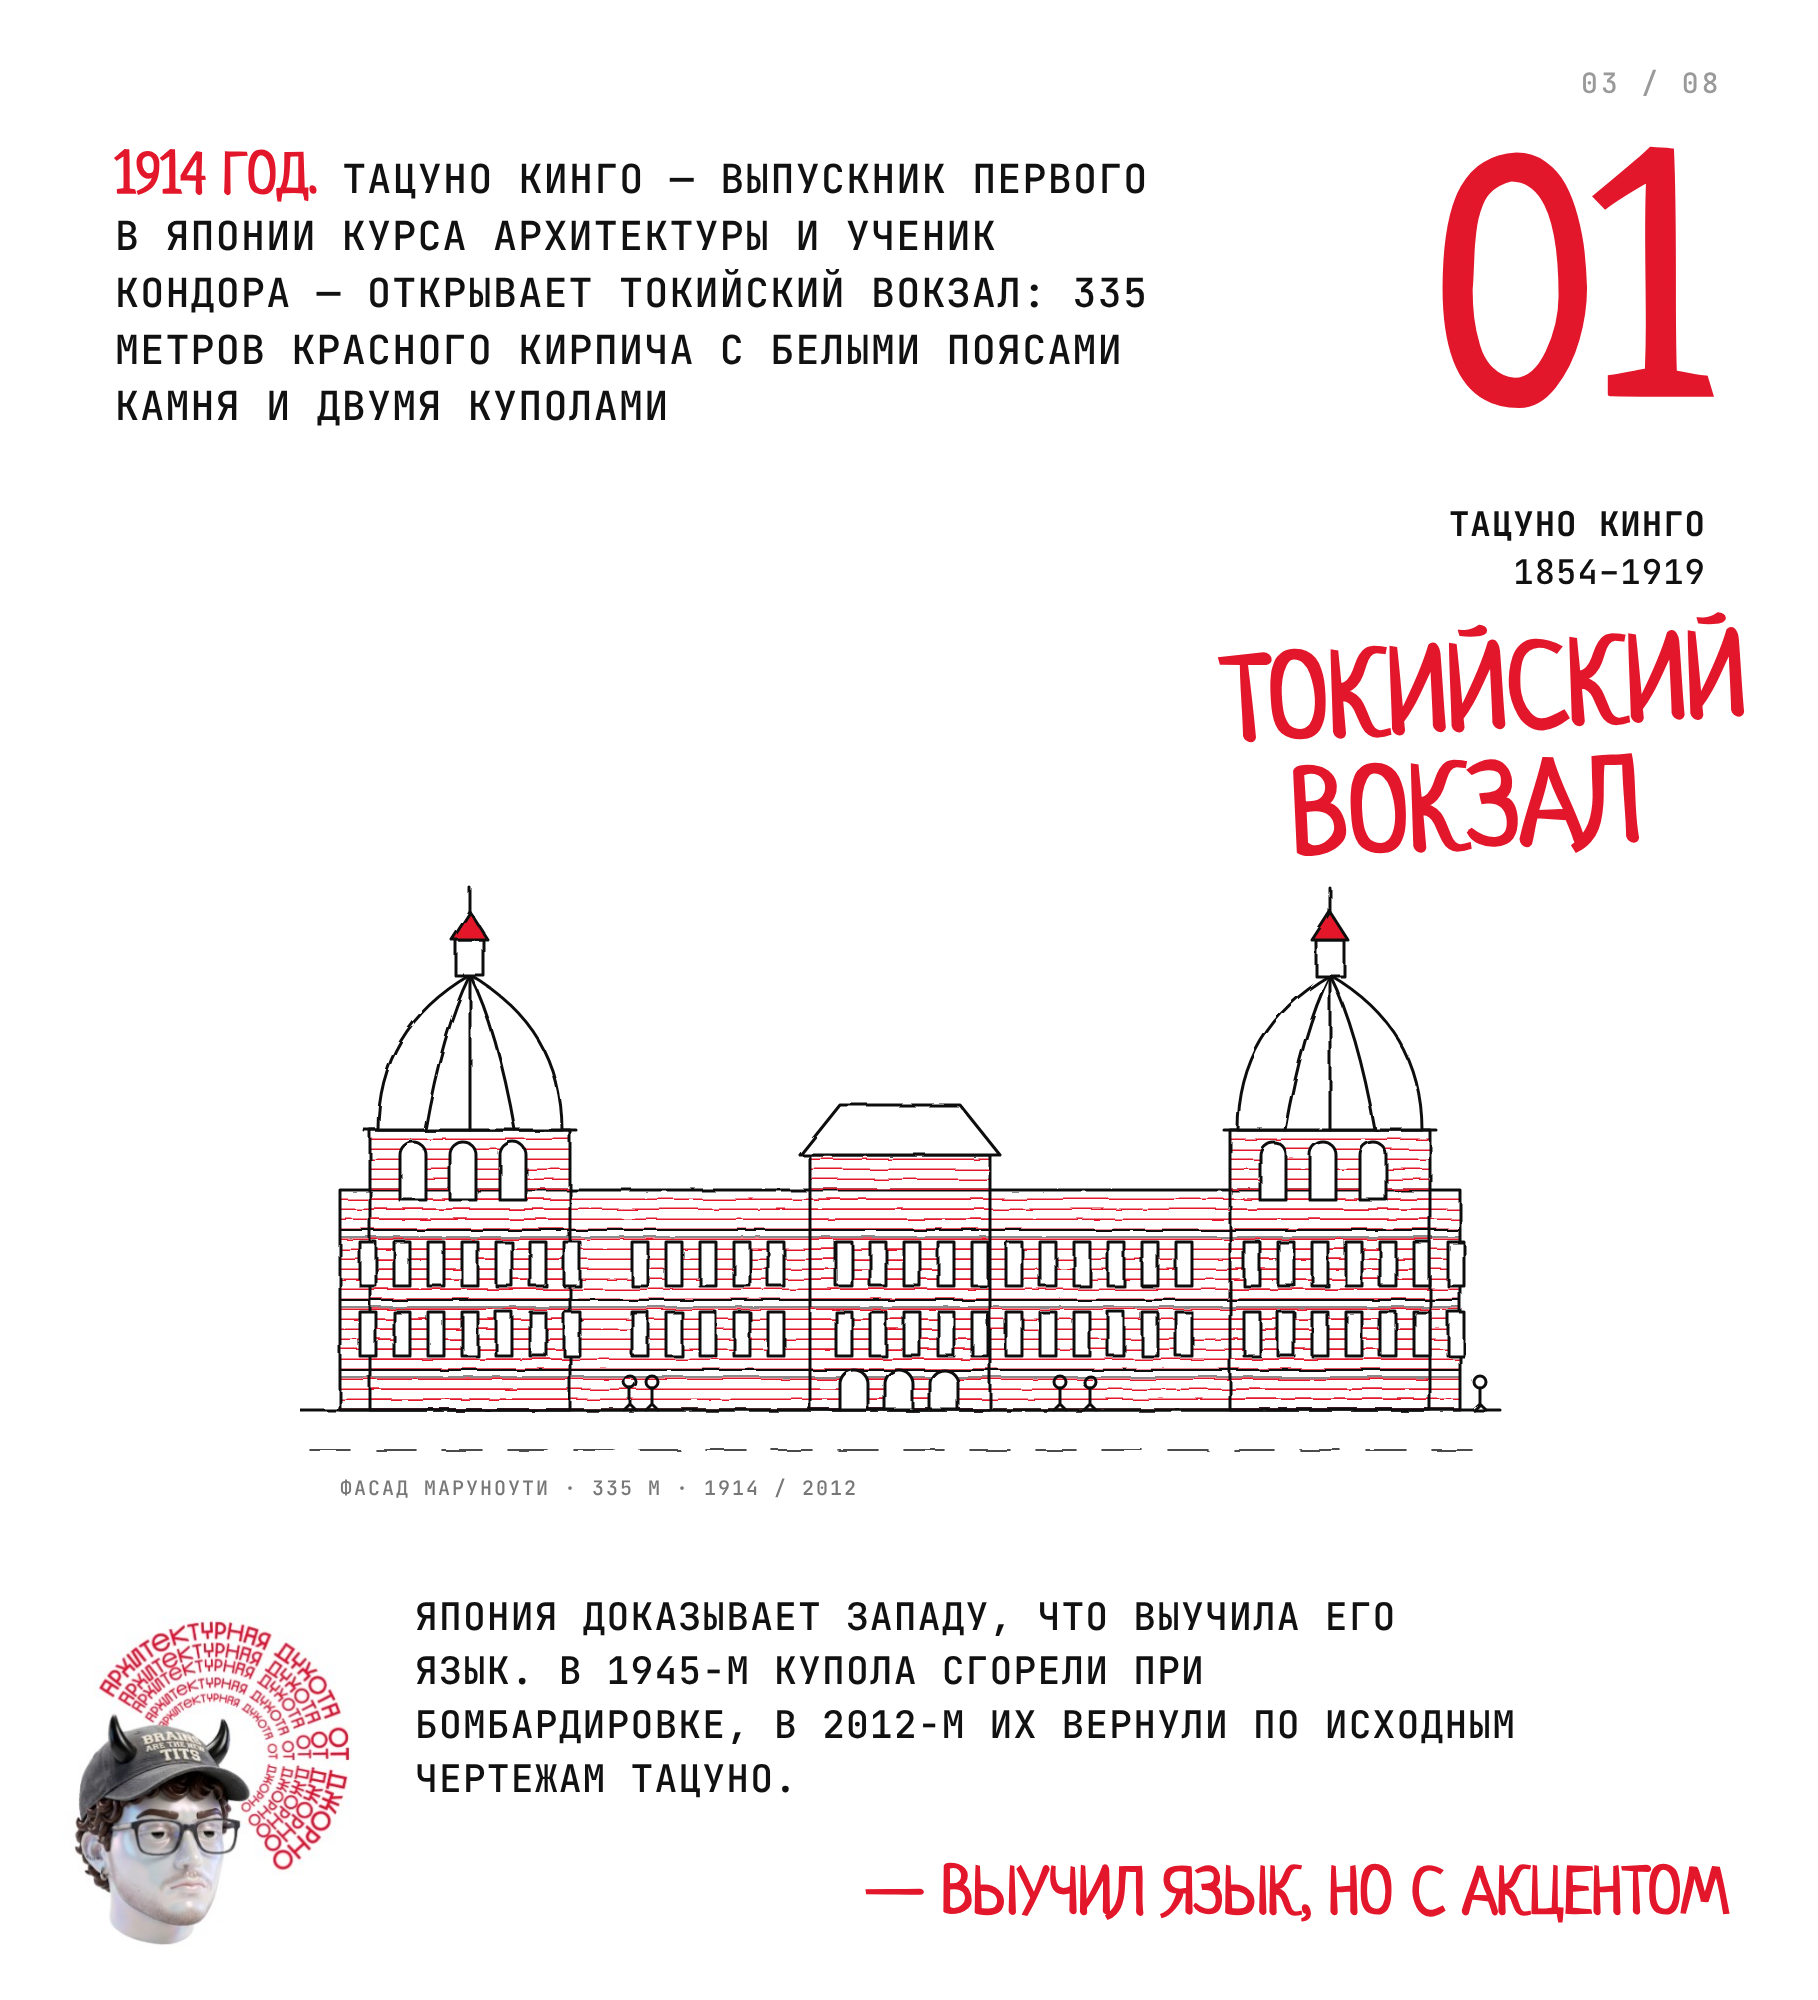
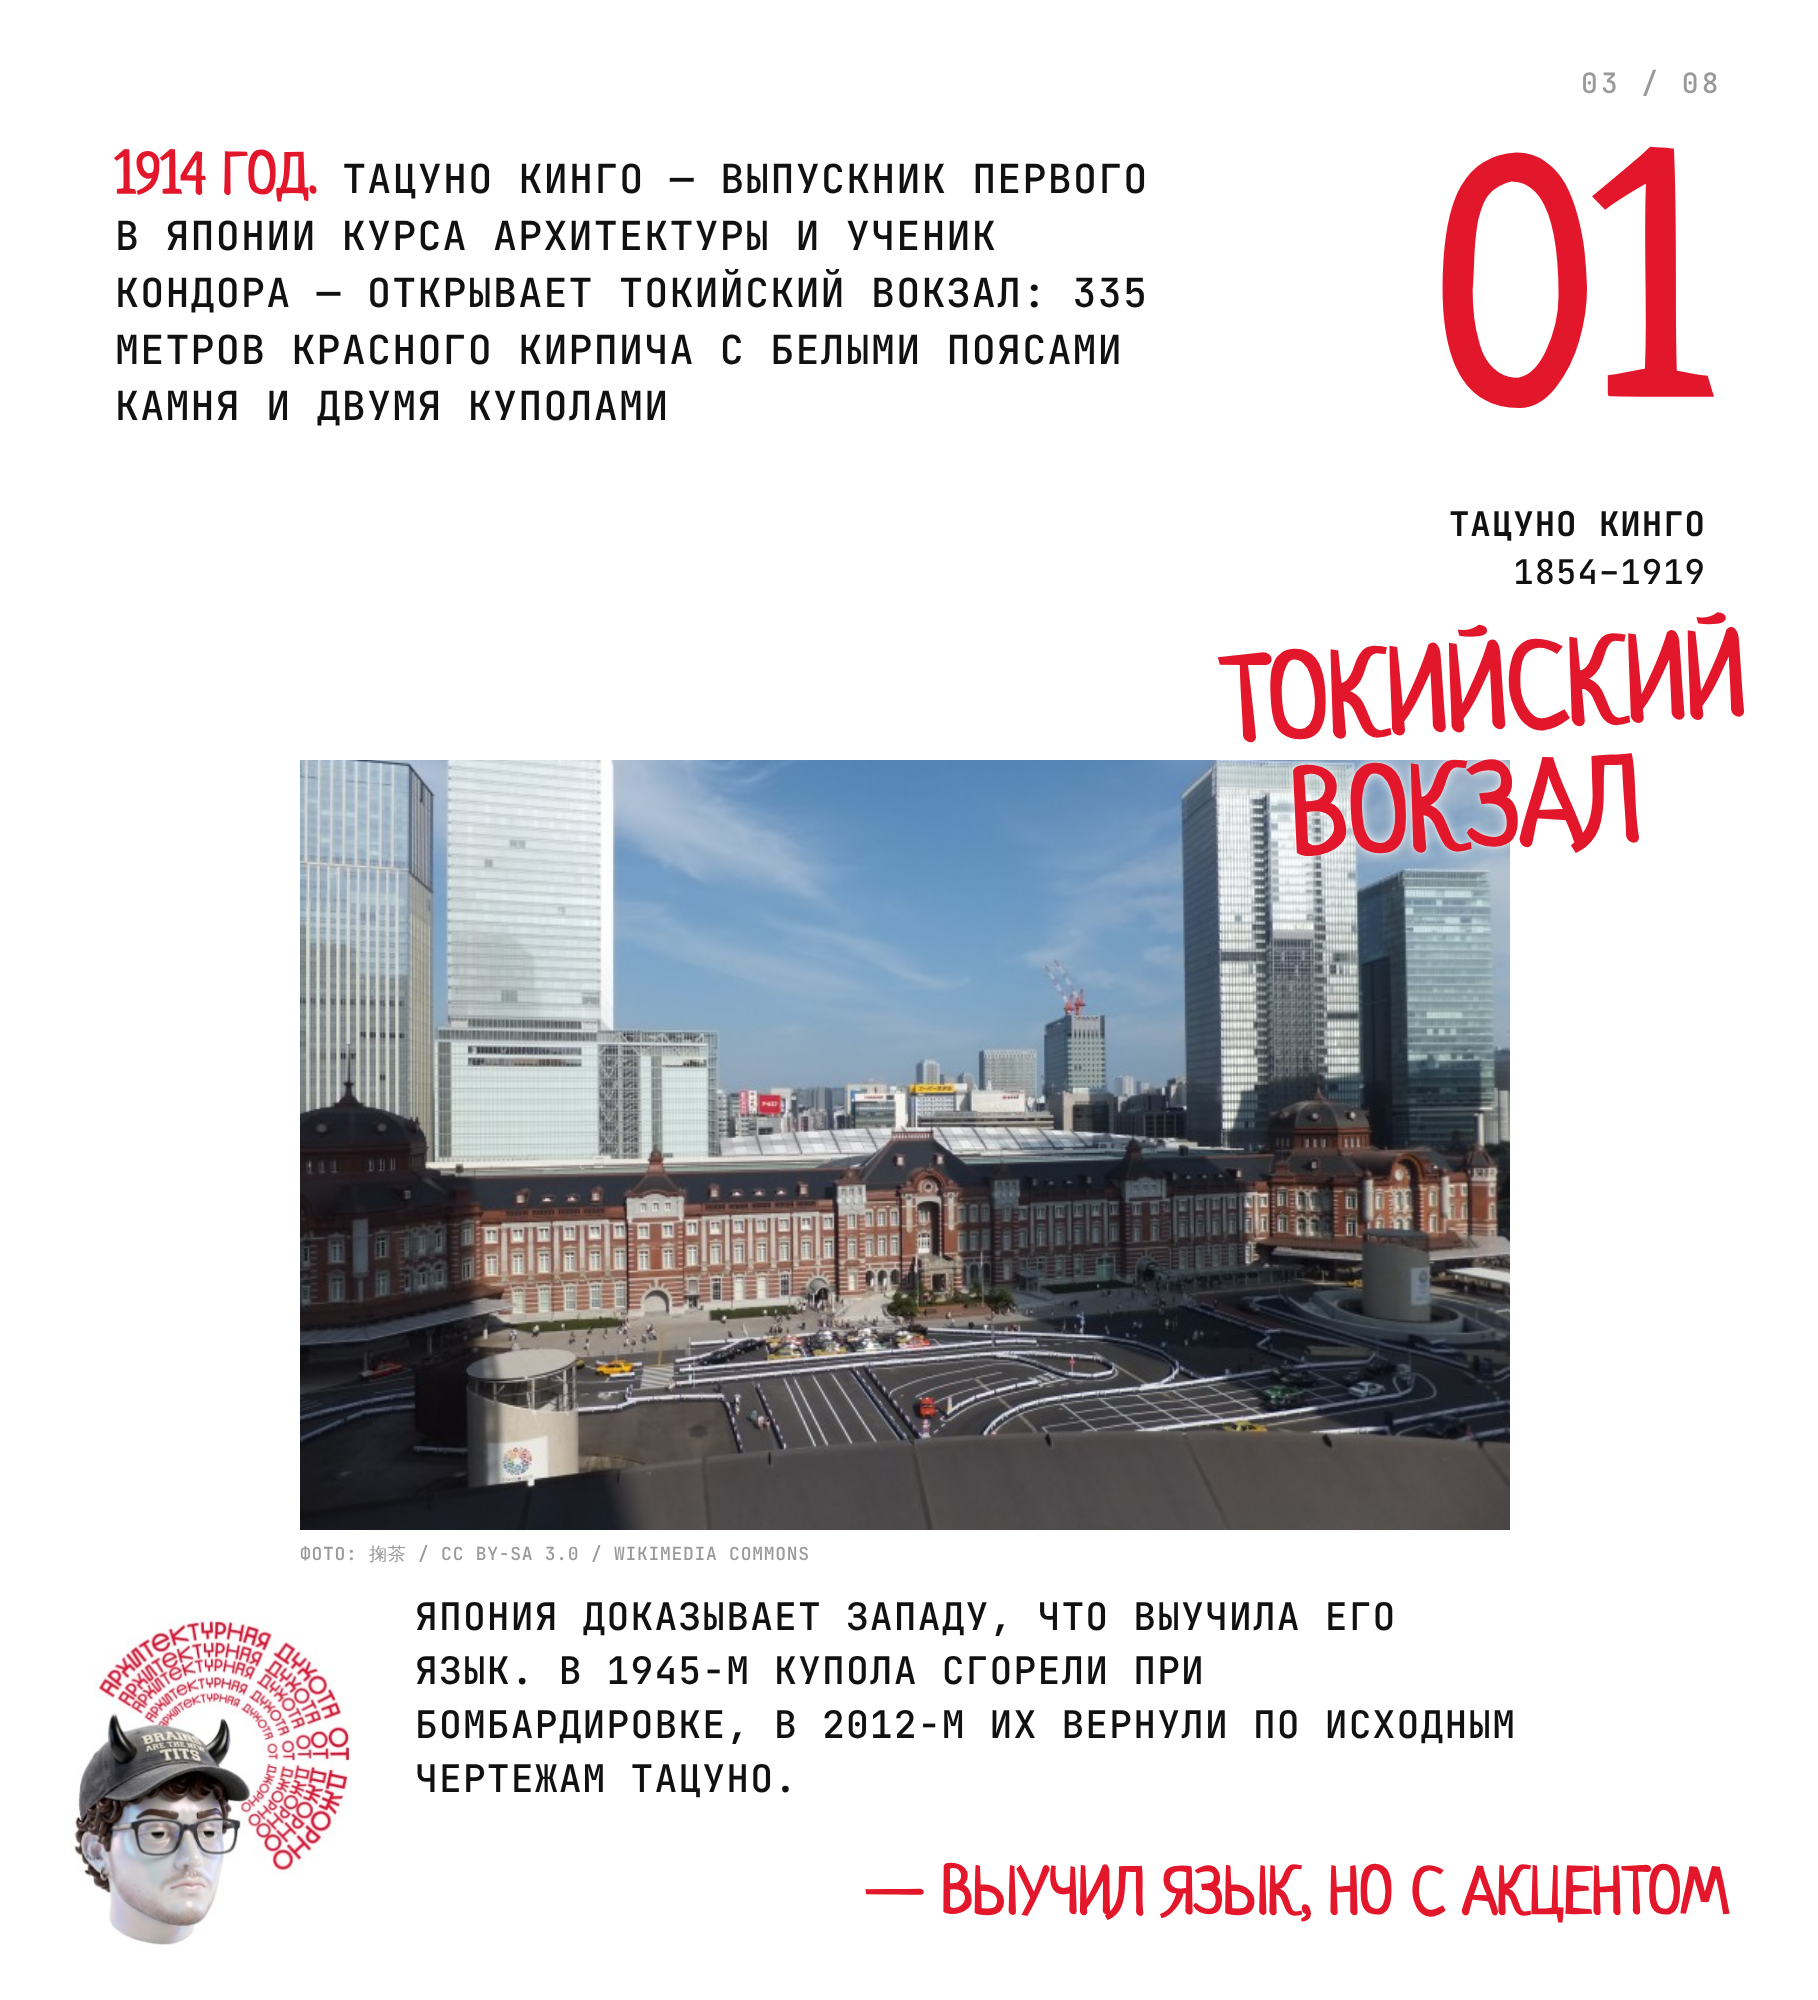
Carousel: real Wikimedia photos for Tokyo Station, Yoyogi, Nakagin, Church of the Light
Photos pulled from the Google Landmarks v2 mirror with author/license credits on slide.

Claude-Session: https://claude.ai/code/session_01P3H123YjJAsg9f2r9Q6Sv8

Changed region(s): [[0.154, 0.372, 0.8317, 0.775]]

diff --git a/carousel/japan-architects/carousel.html b/carousel/japan-architects/carousel.html
@@ -26,7 +26,8 @@
   .who { position:absolute; right:112px; top:500px; text-align:right; font-size:34px; }
   .lead { position:absolute; left:115px; top:150px; width:1060px; }
   .art { position:absolute; left:300px; top:760px; width:1210px; height:770px; }
-  .art > img { width:100%; height:100%; object-fit:cover; display:block; }
+  .art .ph { display:flex; gap:14px; width:100%; height:100%; }
+  .art .ph img { flex:1; min-width:0; height:100%; object-fit:cover; display:block; }
   .credit { position:absolute; left:0; top:782px; font-family:'JetBrains Mono'; font-size:18px; color:#999; letter-spacing:0.04em; white-space:nowrap; }
   .portrait { display:none; position:absolute; right:100px; top:100px; width:400px; height:480px; object-fit:cover; object-position:50% 20%; filter:grayscale(1) contrast(1.12); }
   .has-portrait .portrait { display:block; }
@@ -77,7 +78,7 @@
   <div class="mono lead"><span class="hand">1914 ГОД.</span> ТАЦУНО КИНГО — ВЫПУСКНИК ПЕРВОГО В ЯПОНИИ КУРСА АРХИТЕКТУРЫ И УЧЕНИК КОНДОРА — ОТКРЫВАЕТ ТОКИЙСКИЙ ВОКЗАЛ: 335 МЕТРОВ КРАСНОГО КИРПИЧА С БЕЛЫМИ ПОЯСАМИ КАМНЯ И ДВУМЯ КУПОЛАМИ</div>
   <div class="hand num">01</div>
   <div class="mono who"><b>ТАЦУНО КИНГО</b><br>1854–1919</div>
-  <div class="art" data-art="station" data-photo="tokyo-station"></div>
+  <div class="art" data-art="station" data-photo="tokyo-station" data-pos="50% 75%"></div>
   <img class="portrait" data-portrait="tatsuno" alt="">
   <div class="hand tag" style="right:70px;top:640px">ТОКИЙСКИЙ<br>&nbsp;&nbsp;ВОКЗАЛ</div>
   <div class="mono after">ЯПОНИЯ ДОКАЗЫВАЕТ ЗАПАДУ, ЧТО ВЫУЧИЛА ЕГО ЯЗЫК. В 1945-М КУПОЛА СГОРЕЛИ ПРИ БОМБАРДИРОВКЕ, В 2012-М ИХ ВЕРНУЛИ ПО ИСХОДНЫМ ЧЕРТЕЖАМ ТАЦУНО.</div>
@@ -103,7 +104,7 @@
   <div class="mono lead"><span class="hand">1972 ГОД.</span> ГИНДЗА. КИСЁ КУРОКАВА ПРИКРУЧИВАЕТ 140 КАПСУЛ 2,5 × 4 МЕТРА К ДВУМ БЕТОННЫМ СТВОЛАМ. МЕТАБОЛИЗМ: ГОРОД — ОРГАНИЗМ, КВАРТИРА — КЛЕТКА, КОТОРУЮ МОЖНО ЗАМЕНИТЬ</div>
   <div class="hand num">03</div>
   <div class="mono who"><b>КИСЁ КУРОКАВА</b><br>1934–2007</div>
-  <div class="art" data-art="nakagin" data-photo="nakagin"></div>
+  <div class="art" data-art="nakagin" data-photo="nakagin,nakagin-2"></div>
   <img class="portrait" data-portrait="kurokawa" alt="">
   <div class="hand tag" style="right:50px;top:650px">НАКАГИН<br>&nbsp;&nbsp;КАПСУЛ ТАУЭР</div>
   <div class="mono after">КАПСУЛЫ ПЛАНИРОВАЛИ МЕНЯТЬ РАЗ В 25 ЛЕТ. НЕ ПОМЕНЯЛИ НИ ОДНОЙ. В 2022-М БАШНЮ РАЗОБРАЛИ, ЧАСТЬ КАПСУЛ СПАСЛИ И ОТРЕСТАВРИРОВАЛИ ДЛЯ МУЗЕЕВ.</div>
@@ -343,10 +344,12 @@ const find = async name => { for (const ext of ['jpg','jpeg','png','webp']) { co
 const credit = name => CREDITS[name] ? `ФОТО: ${CREDITS[name]}` : '';
 window.__ready = Promise.all([
   ...[...document.querySelectorAll('[data-art]')].map(async el => {
-    const img = await find(el.dataset.photo);
-    if (!img) { el.innerHTML = art[el.dataset.art](); return; }
-    el.innerHTML = ''; el.appendChild(img);
-    const c = credit(el.dataset.photo); if (c) el.insertAdjacentHTML('beforeend', `<div class="credit">${c}</div>`);
+    const names = el.dataset.photo.split(',');
+    const imgs = (await Promise.all(names.map(find))).filter(Boolean);
+    if (!imgs.length) { el.innerHTML = art[el.dataset.art](); return; }
+    el.innerHTML = '<div class="ph"></div>';
+    imgs.forEach(i => { if (el.dataset.pos) i.style.objectPosition = el.dataset.pos; el.firstChild.appendChild(i); });
+    const c = credit(names[0]); if (c) el.insertAdjacentHTML('beforeend', `<div class="credit">${c}</div>`);
   }),
   ...[...document.querySelectorAll('[data-portrait]')].map(async el => {
     const img = await find(el.dataset.portrait);

diff --git a/carousel/japan-architects/assets/photos/credits.js b/carousel/japan-architects/assets/photos/credits.js
@@ -1,1 +1,7 @@
-window.CREDITS = window.CREDITS || {};
+// Wikimedia Commons, via the Google Landmarks Dataset v2 mirror (see fetch_gld.py)
+window.CREDITS = {
+  "tokyo-station":   "掬茶 / CC BY-SA 3.0 / WIKIMEDIA COMMONS",
+  "yoyogi":          "KAKIDAI / CC BY-SA 4.0 / WIKIMEDIA COMMONS",
+  "nakagin":         "NESNAD / CC BY 3.0 · KAKIDAI / CC BY-SA 4.0 / WIKIMEDIA COMMONS",
+  "church-of-light": "BERGMANN / CC BY-SA 3.0 / WIKIMEDIA COMMONS"
+};

diff --git a/carousel/japan-architects/fetch_gld.py b/carousel/japan-architects/fetch_gld.py
@@ -1,0 +1,37 @@
+#!/usr/bin/env python3
+"""Pull specific Wikimedia Commons photos out of the Google Landmarks Dataset v2
+mirror on S3 (useful when Wikimedia itself is unreachable). Tars are sorted by
+image id, so we read each tar's first header, pick the right tar and stream it
+only until the wanted ids are passed.
+
+Usage: python3 fetch_gld.py <image_id> [...]   -> gld/<id>.jpg
+Ids/URLs: metadata/train.csv; authors/licenses: metadata/train_attribution.csv.
+Used here: f66905c21651f40b (Tokyo Station), a86f12e092f2b84a (Yoyogi),
+d395443d6a42f1dd + 0ea6bd9d19fa945e (Nakagin), 9e273a044b4e17e5 (Church of the Light).
+"""
+import sys, tarfile, urllib.request, bisect, os
+from concurrent.futures import ThreadPoolExecutor
+BASE = 'https://s3.amazonaws.com/google-landmark/train/images_{}.tar'
+ids = sys.argv[1:]
+os.makedirs('gld', exist_ok=True)
+def first(i):
+    t = f'{i:03d}'
+    req = urllib.request.Request(BASE.format(t), headers={'Range': 'bytes=0-99'})
+    return [t, urllib.request.urlopen(req, timeout=30).read().split(b'\0')[0].decode()]
+with ThreadPoolExecutor(32) as ex:
+    idx = sorted(ex.map(first, range(500)))
+firsts = [p.rsplit('/',1)[1][:-4] for _, p in idx]
+need = {}
+for i in ids:
+    t = idx[bisect.bisect_right(firsts, i) - 1][0]
+    need.setdefault(t, set()).add(i)
+for t, want in sorted(need.items()):
+    last = max(want)
+    r = urllib.request.urlopen(BASE.format(t), timeout=120)
+    with tarfile.open(fileobj=r, mode='r|') as tf:
+        for m in tf:
+            name = os.path.basename(m.name)[:-4]
+            if name in want:
+                open(f'gld/{name}.jpg', 'wb').write(tf.extractfile(m).read()); print('got', name, t, flush=True)
+            if name > last: break
+    r.close()
